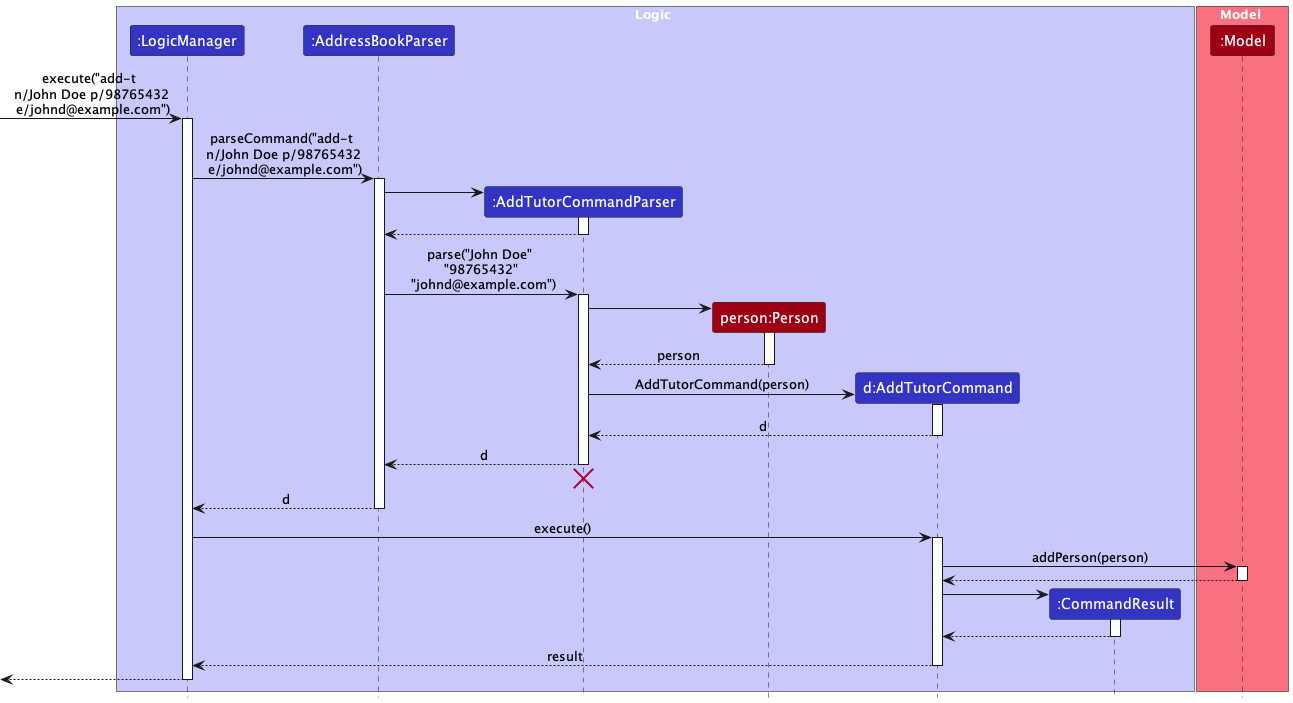
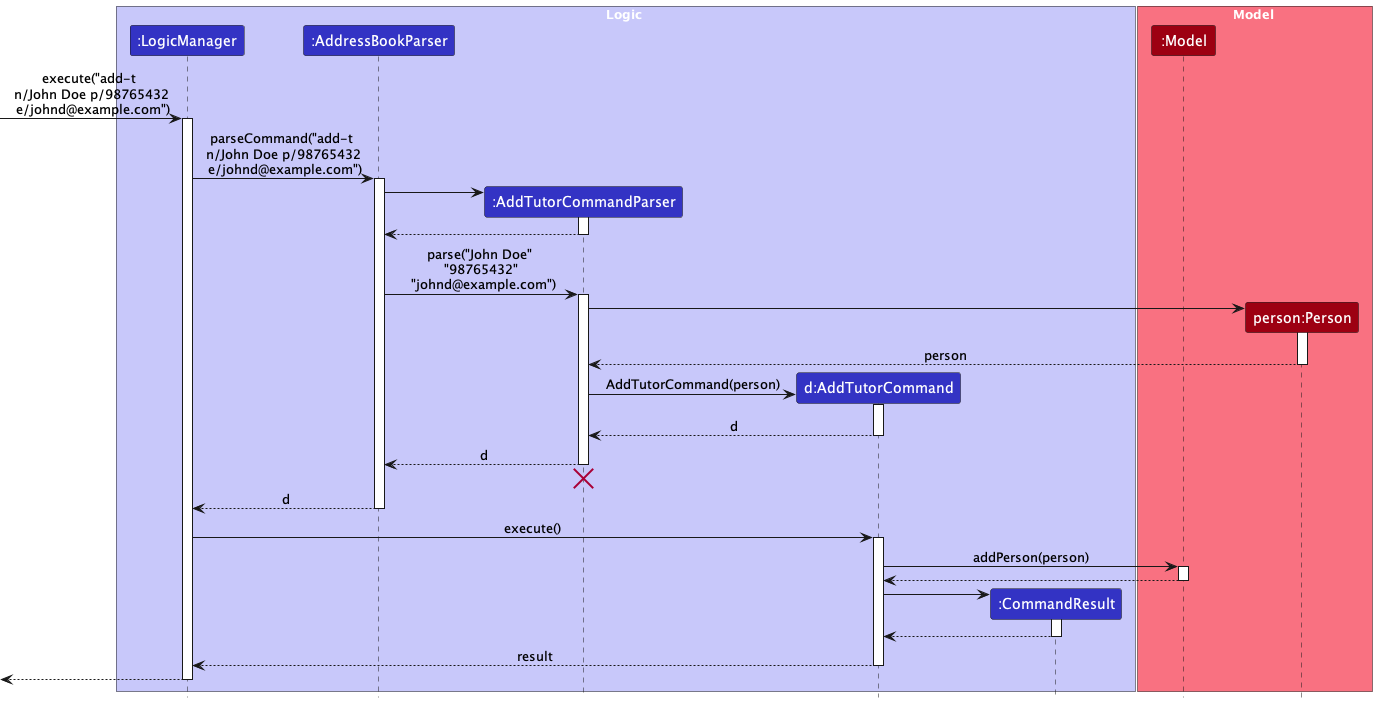
Update add tutor sequence diagram and add note of details omitted

diff --git a/docs/DeveloperGuide.md b/docs/DeveloperGuide.md
@@ -141,9 +141,17 @@ The `Storage` component,
 Classes used by multiple components are in the `seedu.addressbook.commons` package.
 
 <div style="page-break-after: always;"></div>
+
 ## **Implementation**
 
 This section describes some noteworthy details on how certain features are implemented.
+
+<div markdown="span" class="alert alert-info">
+
+:information_source: **Note:** 
+For simplicity, some details such as parsing (`parseIndex`, `parseName`, etc) have been omitted from the implementation details below.
+
+</div>
 
 ### Add tutor feature
 
